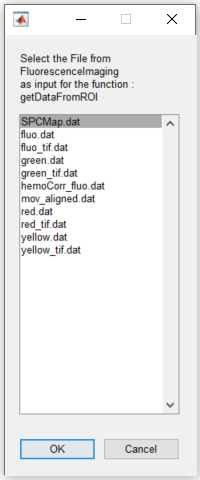
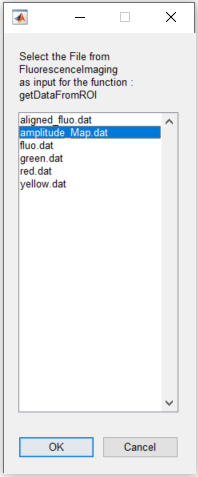
docs: updated "extracting data from ROIs" section.

diff --git a/docs/documentation/tutorials/tt_extracting_data_from_rois.html b/docs/documentation/tutorials/tt_extracting_data_from_rois.html
@@ -16,6 +16,9 @@
     </p>
     <p align="center"><i>Main steps of a typical imaging project to underscore the role of ROI extraction and aggregation.<br>a) Processing steps for a single experiment where the extraction and aggregation of ROI data yields ROI values.<br>b) The ROI values of each recording session is grouped for comparisons.</i></p>
     <p>
+      In this tutorial, we use two distinct imaging datasets to illustrate the ROI data extraction. The first one consists of visual responses to drifting gratings (event-triggered data) while the second one is a resting state recording. For the former, we will show how to extract the response amplitude of visual areas using the function <i>getDataFromROI</i>. Whereas for the latter, we will use the function <i>genCorrelationMatrix</i> to create a matrix with the Pearson's correlation values between the different visual cortical areas of the mouse.
+    </p>
+    <p>
       Before extracting the data from the ROIs, we assume that the following procedures were previously executed:
       <ul>
         <li>The data from single recordings were properly preprocessed.</li>
@@ -26,12 +29,31 @@
     <h3>Sections</h3>
     <hr>
     <ul>
-      <li><a href="#main-gui">Extract ROI data from the main GUI</a>: extract ROIs from different recordings using the <i>Pipeline Control</i> of <samp>umIToolbox</samp>.</li>
-      <li><a href="#dataviewer">Extract ROI data from <i>DataViewer</i> app</a>: extract ROIs from a single recording using the standalone version of <i>DataViewer</i>.</li>
+      <li><b>Event-triggered dataset:</b> extract response amplitude values of ROIs from event-triggered data.
+        <ul>
+          <li><a href="#evnt-trig-data-main-gui">Extract ROI data from the main GUI</a>: extract ROIs from different recordings using the <i>Pipeline Control</i> of <samp>umIToolbox</samp> app.</li>
+          <li><a href="#evnt-trig-data-dataviewer">Extract ROI data from <i>DataViewer</i> app</a>: extract ROIs from a single recording using the standalone version of <i>DataViewer</i>.</li>
+        </ul>
+      </li>
+      <li><b>Resting state dataset:</b> create correlation matrices from resting state data.
+        <ul>
+          <li><a href="#corr-mat-main-gui">Create correlation matrix from the main GUI</a>: generate correlation matrices from the ROIs of different recordings using the <i>Pipeline Control</i> of <samp>umIToolbox</samp> app.</li>
+          <li><a href="#corr-mat-dataviewer">Create correlation matrix from <i>DataViewer</i> app</a>: generate and export a correlation matrix from a single recording using the standalone version of <i>DataViewer</i>.</li>
+        </ul>
+      </li>
     </ul>
-    <h3 id="main-gui">Extract ROI data from the main GUI</h3>
+    <h3 id="evnt-trig-intro">Event-triggered dataset</h3>
     <hr>
-      First open your project file in the main GUI. In Matlab's command window, type:
+    <p>
+      As introduced above, the event-triggered dataset consists of the visual responses to drifting gratings. The data used as input for the extraction and aggregation function consists of <i>cortical activation maps</i> containing the response amplitude of the fluorescence signal to the gratings. The preprocessing workflow of the amplitude maps is shown below:
+    </p>
+    <img src="../assets/img/tt_creating_evnt_triggered_avg_maps_ppline_workflow.png" alt="tt_creating_evnt_triggered_avg_maps_ppline_workflow", width="660">
+    <p>
+    </p>
+      In this part of the tutorial, you will learn how to extract and calculate the average response amplitude of each ROI from cortical activation maps.
+    <h4 id="evnt-trig-data-main-gui">Extract ROI data from the main GUI</h4>
+    <p>
+      1. First open your project file in the main GUI. In Matlab's command window, type:
     </p>
     <div class="codeinput">
       <pre>
@@ -39,59 +61,65 @@
       </pre>
     </div>
     <p>
-      Then, go to the <i>Pipeline control panel</i> tab and highlight the recordings to extract. Here, we will extract the data from all Resting State recordings from the mouse <b>M4D</b>:
+      2. Then, go to the <i>Pipeline control panel</i> tab and highlight the recordings to extract. Here, we will extract the data from all cortical amplitude maps from the mouse <b>M4D</b>:
     </p>
     <img src="../assets/img/tt_extracting_data_from_rois_mainGUI_data_selection.png" alt="tt_extracting_data_from_rois_mainGUI_data_selection", width="660">
     <p>
-      Click on <i>Select</i> to confirm selection and on <i>Launch Pipeline Config</i> to open the pipeline configuration app.
+      3. Click on <i>Select</i> to confirm selection and on <i>Launch Pipeline Config</i> to open the pipeline configuration app.
     </p>
     <p>
-      Select the <i>FluorescenceImaging</i> object:
+      4. Select the <i>FluorescenceImaging</i> object:
     </p>
     <img src="../assets/img/align_tt_select_objtype.png" alt="align_tt_select_objtype", width = "240">
     <p>
-      In the Pipeline Configuration app, select the function <i>getDataFromROI</i> (step 1), add it to the pipeline (step 2), select the function (step 3) and click on <i>Set Options</i> button (step 4):
+      5. In the Pipeline Configuration app, select the function <i>getDataFromROI</i> (step 1), add it to the pipeline (step 2), select the function (step 3) and click on <i>Set Options</i> button (step 4):
     </p>
     <img src="../assets/img/tt_extracting_data_from_rois_mainGUI_fcn_selection.png" alt="tt_extracting_data_from_rois_mainGUI_fcn_selection", width="660">
     <p>
-      The function <i>getDataFromROI</i> has two parameters: the file name containing the ROI information (i.e. the <samp>ROImasks_&lt;NAME&gt;.mat</samp> file) and the spatial aggregation function to be applied (<samp>SpatialAggFcn</samp>). Here we will use the ROIs stored in <samp>ROImasks_data.mat</samp> file and the ROI pixel values will be averaged using the <samp>mean</samp> for the <samp>SpatialAggFcn</samp> parameter:
+      The function <i>getDataFromROI</i> has two parameters: the file name containing the ROI information (i.e. the <samp>ROImasks_&lt;NAME&gt;.mat</samp> file) and the spatial aggregation function to be applied (<samp>SpatialAggFcn</samp>). Here we will use the ROIs stored in <samp>ROImasks_data.mat</samp> file and the ROI pixel values will be averaged using the <samp>mean</samp> option for the <samp>SpatialAggFcn</samp> parameter:
     </p>
     <img src="../assets/img/tt_extracting_data_from_rois_fcn_setOpts.png" alt="tt_extracting_data_from_rois_fcn_setOpts">
     <p>
-      Now, select the <i>FluorescenceImaging</i> object:
+      6. You can also rename the output file. To do so, click on <i>Save step</i> button and rename the file. Here the output file is renamed to <samp>ROI_dataSF</samp>:
+    </p>
+    <img src="../assets/img/tt_extracting_data_from_rois_output_data_renaming.png" alt="tt_extracting_data_from_rois_output_data_renaming.png", width="330">
+    <p>
+      7. Next, click on <i>Save config.</i> button to apply the pipeline.
+    </p>
+    <p>
+      8. Now, select the <i>FluorescenceImaging</i> object:
     </p>
     <img src="../assets/img/tt_extracting_data_from_rois_fcn_sel_input_obj.png" alt="tt_extracting_data_from_rois_fcn_sel_input_obj", height="440">
     <p>
-      And, finally, select the data to be extracted. Here, we will extract the ROI data from functional connectivity data stored in <samp>SPCMap.dat</samp> file:
+      9. Then, select the data to be extracted. Here, we will extract the ROI data from functional connectivity data stored in <samp>amplitude_Map.dat</samp> file:
     </p>
     <img src="../assets/img/tt_extracting_data_from_rois_fcn_sel_input_file.png" alt="tt_extracting_data_from_rois_fcn_sel_input_file", height="440">
     <p>
-      Finally, back in the main GUI, in the <i>Pipeline control panel</i> tab, click on <i>Run Pipeline</i> to extract the ROI data. The extracted and aggregated data from the ROIs are stored in the file <samp>ROI_data.mat</samp>:
+      10. Finally, back in the main GUI, in the <i>Pipeline control panel</i> tab, click on <i>Run Pipeline</i> to extract the ROI data. The extracted and aggregated data from the ROIs are stored in the file <samp>ROI_dataSF.mat</samp>:
     </p>
     <img src="../assets/img/tt_extracting_data_from_rois_mainGUI_ppln_result.png" alt="tt_extracting_data_from_rois_mainGUI_ppln_result", width="880">
     <div class="infonote">
       <p><strong>Note</strong><br>
-        Once the data from ROIs were extracted from all recordings of your project, you can now use the <samp>ROI_data.mat</samp> files to perform group analysis. Check the next tutorials on how to <a href="#">create groups</a> and <a href="#">visualize grouped data</a> to see how the data created in this tutorial is used!
+        Once the data from ROIs were extracted from all recordings of your project, you can now use the <samp>ROI_dataSF.mat</samp> files to visualize the grouped data. Check the next tutorials on how to <a href="#">create groups</a> and <a href="#">visualize grouped data</a> to see how the data created in this tutorial is used!
       </p>
     </div>
-
-    <h3 id="dataviewer">Extract ROI data from <i>DataViewer</i> app</h3>
-    <hr>
+    <br>
+    <h4 id="evnt-trig-data-dataviewer">Extract ROI data from <i>DataViewer</i> app</h4>
     <p>
-      The ROI data can also be extracted and aggregated in a single recording using the <i>DataViewer</i> app as standalone. Here are the steps to extract the data from <i>DataViewer</i>:
+      The ROI data can also be extracted and aggregated in a single recording using the <i>DataViewer</i> app as standalone. The data was preprocessed as the workflow shown in the section <a href="#evnt-trig-intro">introduction</a>. Here are the steps to extract the data from <i>DataViewer</i>:
     </p>
     <p>
-      1. First, open <i>DataViewer</i> with the imaging file that you want to extract. Here, we will extract the Resting state data stored in the file <samp>SPCMap.dat</samp>. To do so, in Matlab's command window, type:
+      1. First, open <i>DataViewer</i> with the imaging file that you want to extract. Here, we will extract the Resting state data stored in the file <samp>amplitude_Map.dat</samp>. To do so, in Matlab's command window, type:
     </p>
     <div class="codeinput">
       <pre>
-        DataViewer(<font class="stringformat">'C:/FULLPATH_TO_SAVEFOLDER/SPCMap.dat'</font>)
+        DataViewer(<font class="stringformat">'C:/FULLPATH_TO_SAVEFOLDER/amplitude_Map.dat'</font>)
       </pre>
     </div>
     <p>
-      2. In <i>DataViewer</i>, create or load the ROIs to be used to extract the data:
+      2. In <i>DataViewer</i>, create or load the ROIs to be used to extract the data using the <i>ROImanager</i> app (<i>Add-ons >> ROImanager</i>):
     </p>
-    <img src="../assets/img/tt_extracting_data_from_rois_dataviewer_spcm_with_rois.png" alt="tt_extracting_data_from_rois_dataviewer_spcm_with_rois", width="880">
+    <img src="../assets/img/tt_extracting_data_from_rois_dataviewer_SFTF_with_rois.png" alt="tt_extracting_data_from_rois_dataviewer_SFTF_with_rois", width="880">
     <p>
       3. In <i>DataViewer</i>'s main window, go to <i>Utilities >> ROI options >> Extract data from ROI</i>
     </p>
@@ -113,6 +141,63 @@
         However, if you wish to analyse the extracted data outside the toolbox, please read the documentation of the function <a href="#"><i>getDataFromROI</i></a> for details on how the output <samp>.mat</samp> file is organized.
       </p>
     </div>
-
+    <h3 id="evnt-trig-intro">Resting state dataset</h3>
+    <hr>
+    <p>
+      The Resting state dataset used in this part of the tutorial was preprocessed as follows:
+    </p>
+    <img src="../assets/img/tt_extracting_data_from_rois_RS_preprocess_workflow.png" alt="tt_extracting_data_from_rois_RS_preprocess_workflow", width="660">
+    <p>
+      Here, the normalized image time series will be used to extract and aggregate the ROI data as a correlation matrix. The function used to generate the matrices is named <i>genCorrelationMatrix</i>. It will extract and aggregate the ROI pixel values and calculate the Pearson's correlation between the ROIs creating a N x N matrix from the N ROIs. For more details on the function, please read its <a href="#">documentation</a>.
+    </p>
+    <h4 id="corr-mat-main-gui">Create correlation matrix from the main GUI</h4>
+    <p>
+      1. To open and select the data to be extracte, follow the steps 1-4 from the <a href="#evnt-trig-data-main-gui">previous section</a> on ROI data extraction using the main GUI.
+    </p>
+    <p>
+      2. In the <i>Pipeline Configuration</i> app, add the function <i>genCorrelationMatrix</i> to the pipeline (step 2) and open the optional parameters window:
+    </p>
+    <img src="../assets/img/tt_extracting_data_from_rois_genCorrMat_opts_params.png" alt="tt_extracting_data_from_rois_genCorrMat_opts_params", width="330">
+    <p>
+      Here, we will use the default parameters. This setting will create a matrix based on the correlation between the ROIs' centroids. For more info on the different settings for this function, please read its <a href="#">documentation</a>.
+    </p>
+    <p>
+      3. Next, click on <i>Save config</i>. button to apply the pipeline and select the <i>FluorescenceImaging</i> object (see steps 7-8 from the <a href="#evnt-trig-data-main-gui">previous section</a>).
+    </p>
+    <p>
+      4. Select the input file for the function. Here, the file is named <samp>BPtemporalFilter</samp>:
+    </p>
+    <img src="../assets/img/tt_extracting_data_from_rois_fcn_sel_input_file2.png" alt="tt_extracting_data_from_rois_fcn_sel_input_file2", height="440">
+    <p>
+      5. Back in the main GUI, in the <i>Pipeline control panel</i> tab, click on <i>Run Pipeline</i> to generate the correlation matrix. The matrices are stored in the file <samp>corrMatrix.mat</samp>.
+    </p>
+    <img src="../assets/img/tt_extracting_data_from_rois_mainGUI_ppln_result_RS.png" alt="tt_extracting_data_from_rois_mainGUI_ppln_result_RS", width="660">
+    <br>
+    <h4 id="corr-mat-dataviewer">Create correlation matrix from DataViewer app</h4>
+    <p>
+      1. First, open <i>DataViewer</i> with the imaging file that you want to extract. Here, we will extract the Resting state data stored in the file <samp>BPtemporalFilter.dat</samp>. To do so, in Matlab's command window, type:
+    </p>
+    <div class="codeinput">
+      <pre>
+        DataViewer(<font class="stringformat">'C:/FULLPATH_TO_SAVEFOLDER/BPtemporalFilter.dat'</font>)
+      </pre>
+    </div>
+    <p>
+      2. In <i>DataViewer</i>, create or load the ROIs to be used to extract the data using the <i>ROImanager</i> app (<i>Add-ons >> ROImanager</i>):
+    </p>
+    <img src="../assets/img/tt_extracting_data_from_rois_dataviewer_tempFilt_with_rois.png" alt="tt_extracting_data_from_rois_dataviewer_tempFilt_with_rois", width="880">
+    <p>
+      3. In <i>DataViewer</i>'s main window, go to <i>Utilities >> ROI options >> Generate Correlation Matrix</i>
+    </p>
+    <p>
+      4. Select the folder and filename to save the ROI data.
+    </p>
+    <p>
+      5. Finally, set the parameters for the <i>genCorrelationMatrix</i> function (see full documentation <a href="#">here</a>) and click <i>Save</i>. Here, we chose the centroid vs centroid algorithm to generate the correlation matrix:
+    </p>
+    <img src="..\assets\img\tt_extracting_data_from_rois_dataviewer_genCorrMat_opts_gui.png" alt="tt_extracting_data_from_rois_dataviewer_genCorrMat_opts_gui", width="330">
+    <p>
+      Now, the data is saved as a <samp>.mat</samp> file in the folder of your choosing!
+    </p>
   </body>
 </html>

diff --git a/docs/documentation/tutorials/tt_viz_group_data.html b/docs/documentation/tutorials/tt_viz_group_data.html
@@ -9,10 +9,10 @@
     <h2>Visualize grouped data</h2>
     <hr>
     <p>
-      Until now, you learned how to use <b><i>umIT</i></b> to automate the import, preprocessing and data extraction and aggregation from imaging datasets. Now, the data from individual recordings need to be put together in their respective experimental groups and visualized. This is an important step to perform the exploratory and inferential data analysis necessary to answer your scientific questions.
+      Until now, you learned how to use <b><i>umIT</i></b> to import, preprocess, extract and aggregate data from imaging datasets. Now, the data from individual recordings need to be put together in their respective experimental groups and visualized. This is an important step to perform the exploratory and inferential data analysis necessary to answer your scientific questions.
     </p>
     <p>
-      Here, we show an example of visualization of grouped data extracted from the Resting state experiments.
+      Here, we will use the correlation matrices generated in our previous tutorial on <a href="./tt_extracting_data_from_rois.html">how to extract ROI data</a> as an example to illustrate the data grouping and visualization. The toolbox provides a tool dedicated to the visualization of correlation matrices called <i>Plot Correlation Matrix</i>. This and other tools are available in the <i>Apps & tools</i> panel in the <i>Analysis</i> tab of the main GUI (<samp>umIToolbox</samp>). To learn about the other tools, please read the documentation of the <a href="#">umIToolbox</a> app.
     </p>
     <h2> About the data</h2>
     <hr>

diff --git a/docs/documentation/gs_index.html b/docs/documentation/gs_index.html
@@ -58,17 +58,13 @@
     <p><font size = "4"><a href="./tutorials/tt_extracting_data_from_rois.html">Extract data from ROIs</a></font><br>
     Learn how to extract and aggregate the data from ROIs.
     </p>
-    <!-- Tutorial link and description-->
-    <p><font size = "4"><a href="#">Create correlation matrices from ROIs</a></font><br>
-    DESCRIPTION.
-    </p>
-    <!-- Tutorial link and description-->
+        <!-- Tutorial link and description-->
     <p><font size = "4"><a href="./tutorials/tt_creating_groups.html">Create groups</a></font><br>
-    Learn how to separate the subjects into different groups.
+    Learn how to separate the subjects into different experimental groups.
     </p>
     <!-- Tutorial link and description-->
     <p><font size = "4"><a href="./tutorials/tt_viz_group_data.html">Visualize grouped data</a></font><br>
-    Visualize the grouped data extracted from the ROIs.
+    Learn how to generate and visualize the data extracted from the ROIs separated by experimental groups.
     </p>
   </body>
 
